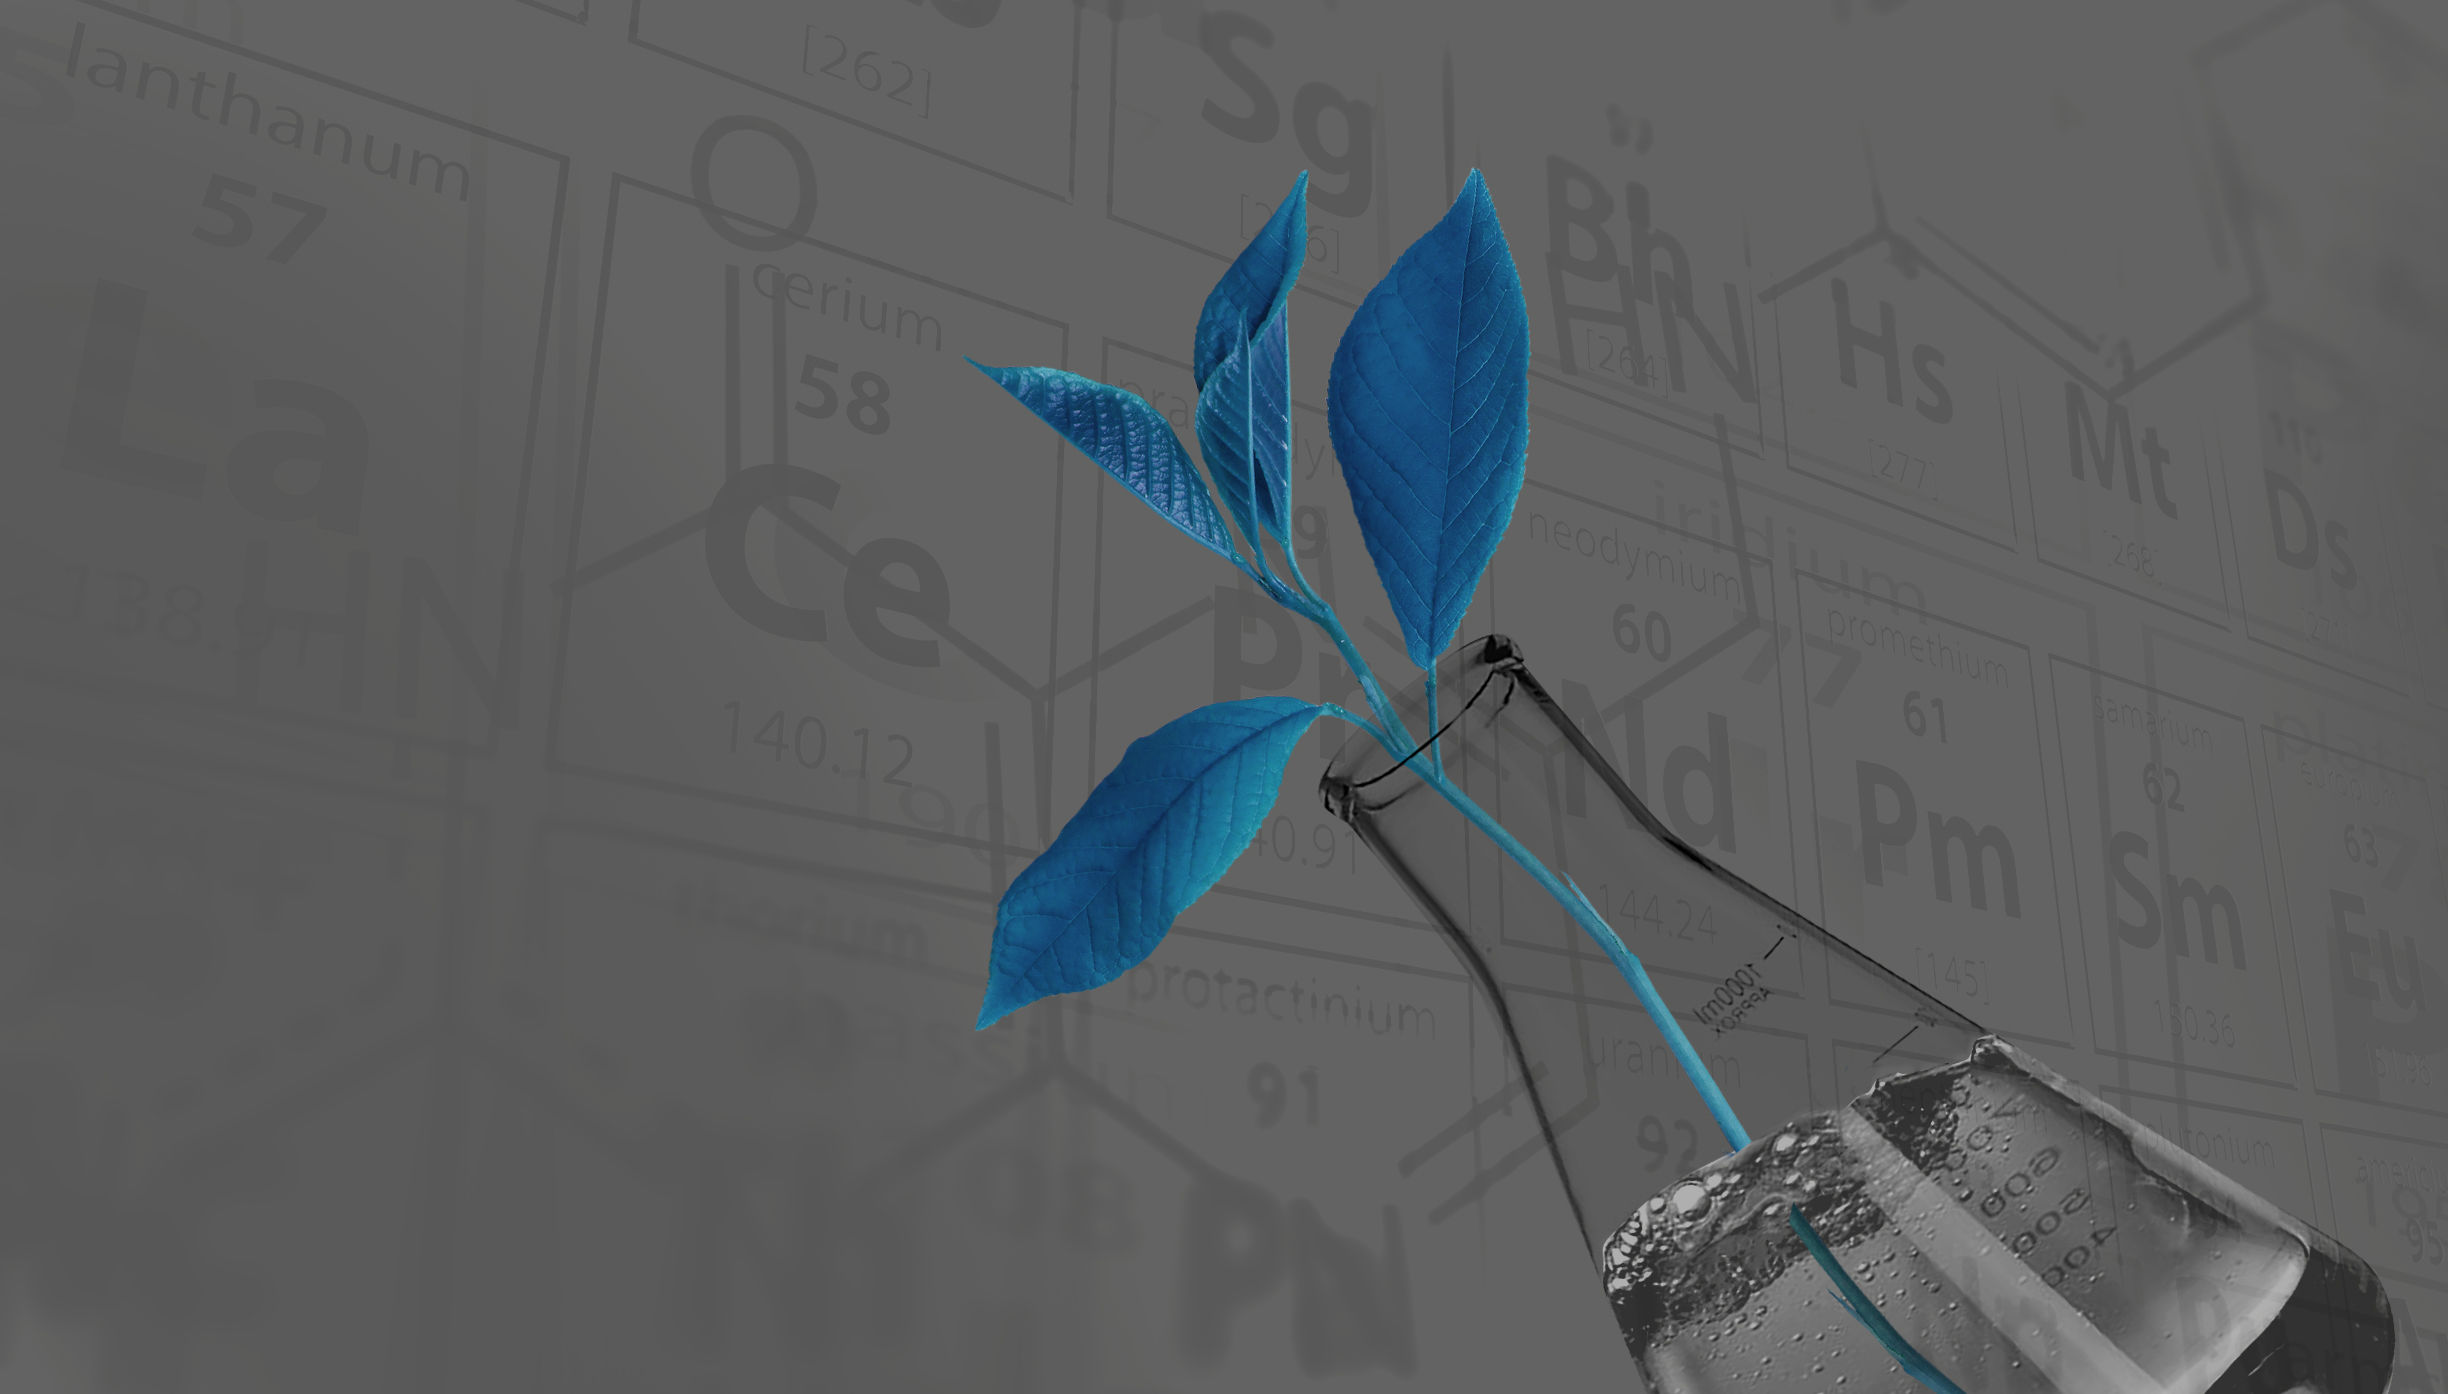
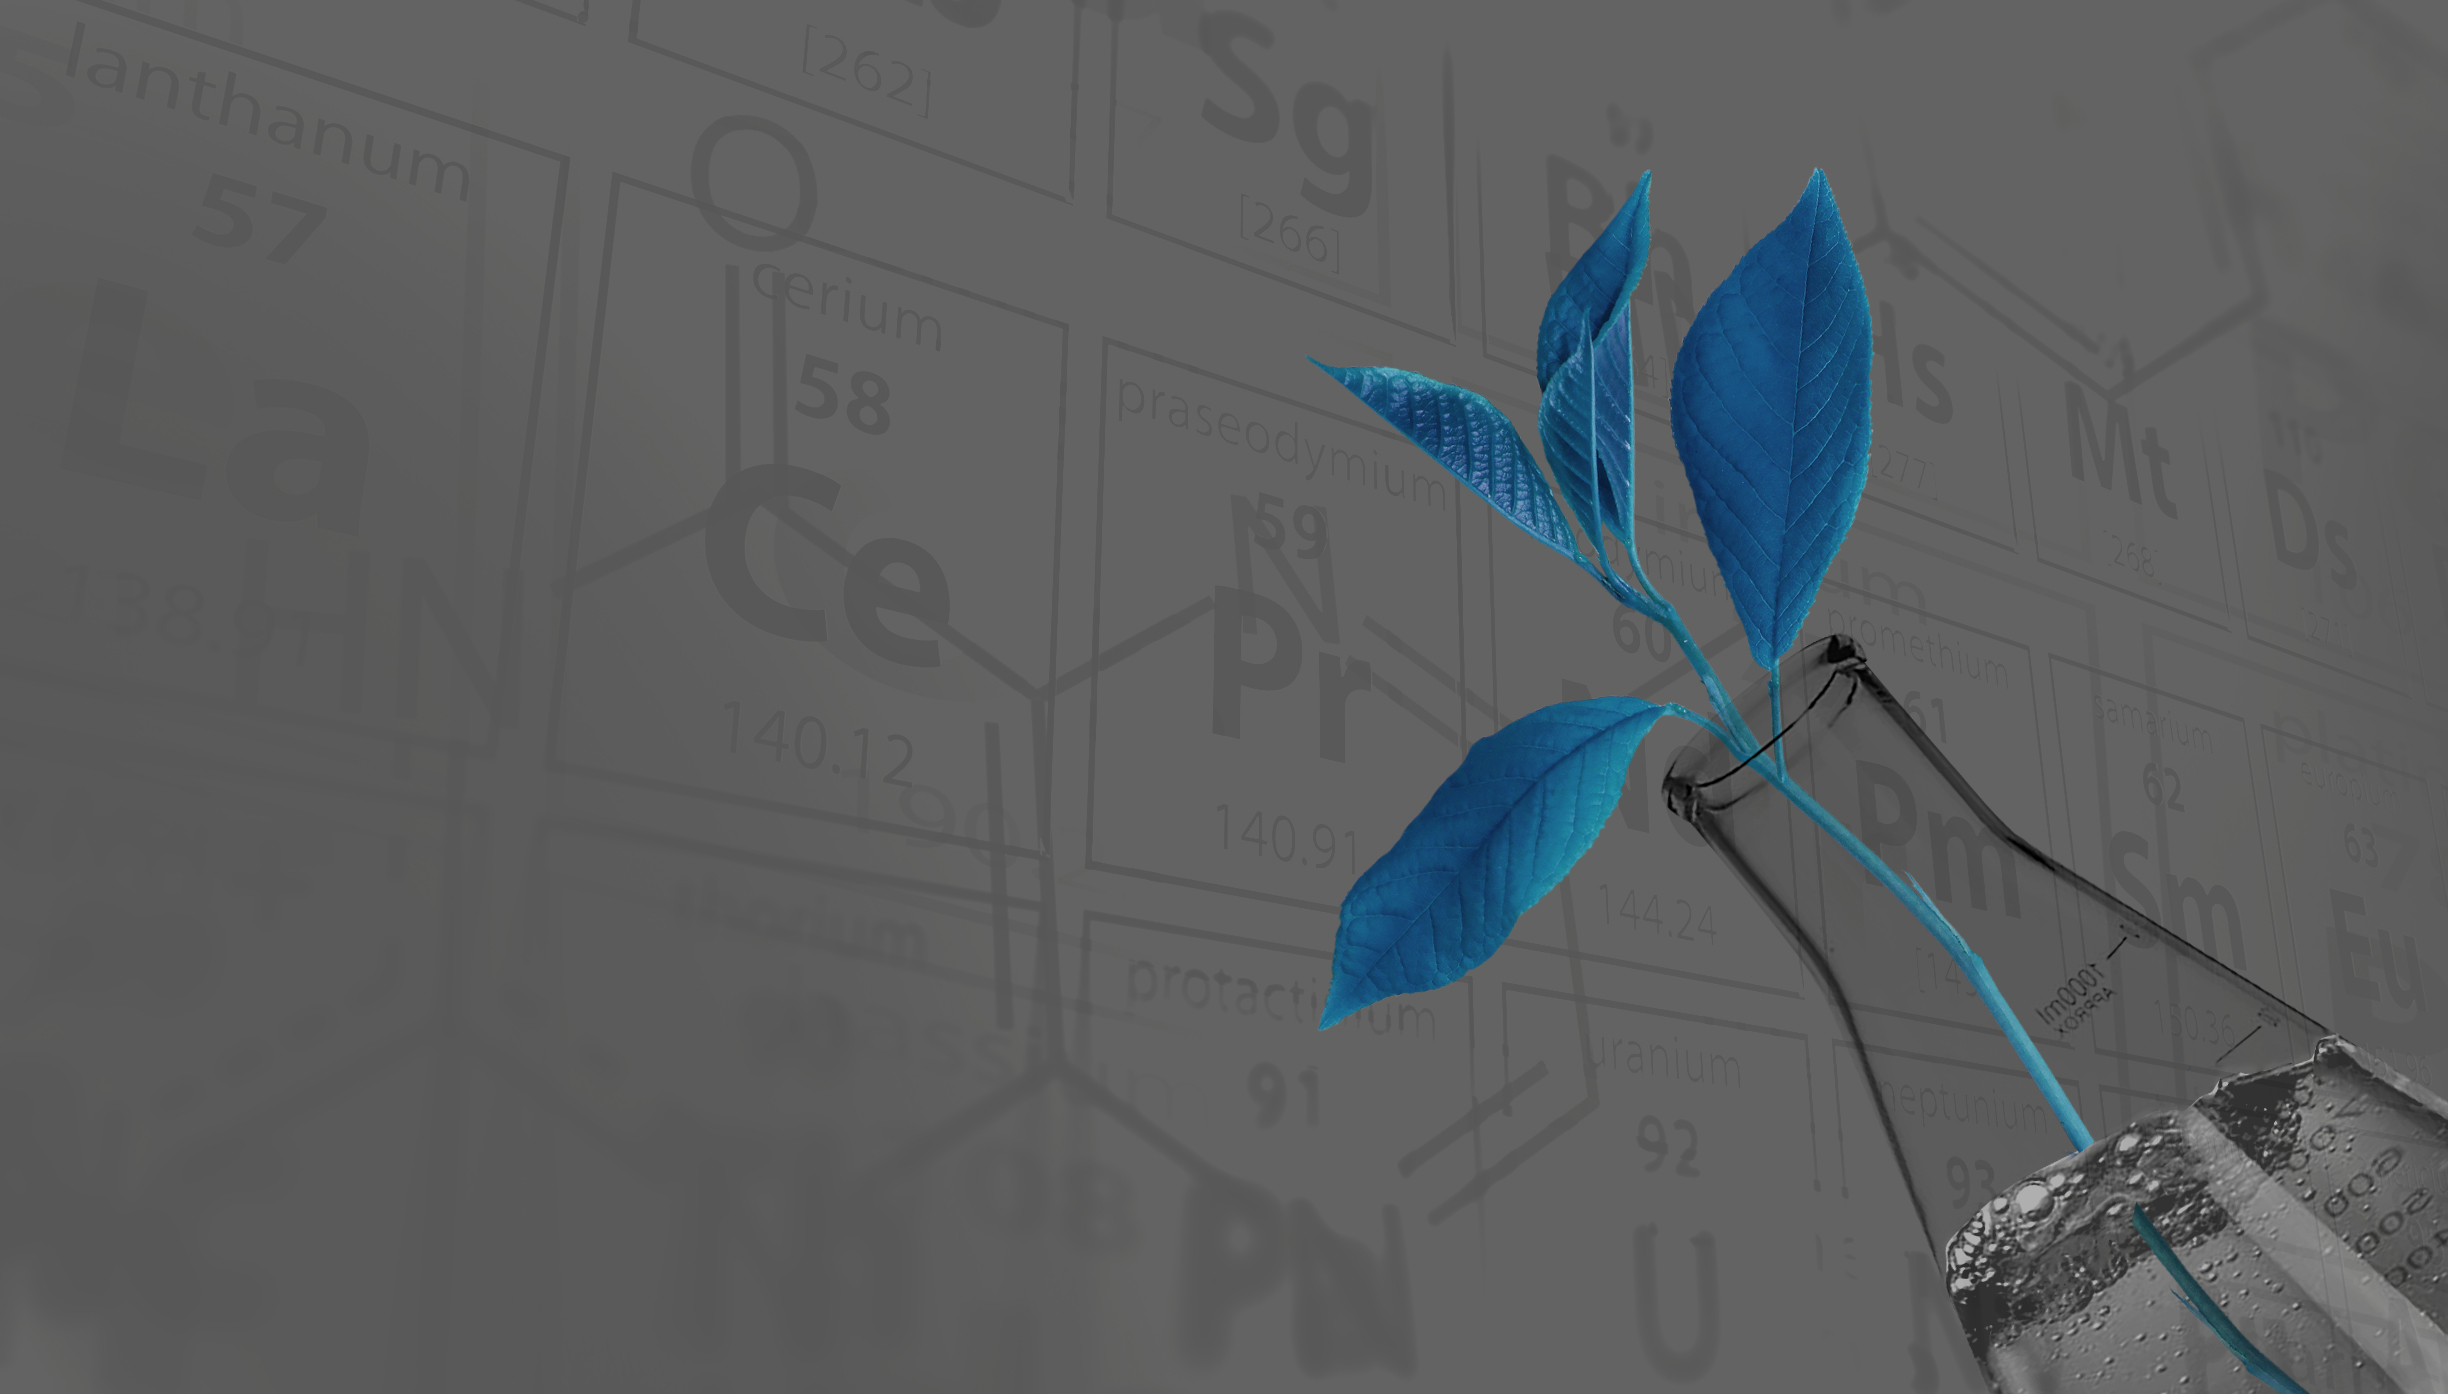
changed btn color and top image on home page

diff --git a/MIBA/wwwroot/css/site.css b/MIBA/wwwroot/css/site.css
@@ -84,7 +84,7 @@ hr {
 }
 
 .top {
-    background-color: rgba(61, 61, 61, 0.658);
+    /*background-color: rgba(61, 61, 61, 0.658);*/
     background-blend-mode: multiply;
     background-image: url('/media/top.jpg');
     background-repeat: no-repeat;
@@ -1742,4 +1742,8 @@ form .user-details .input-box {
     object-fit: cover;
     margin: auto;
     display: block;
+}
+
+.btn-color {
+    background-color: #1c7b9b !important;
 }
